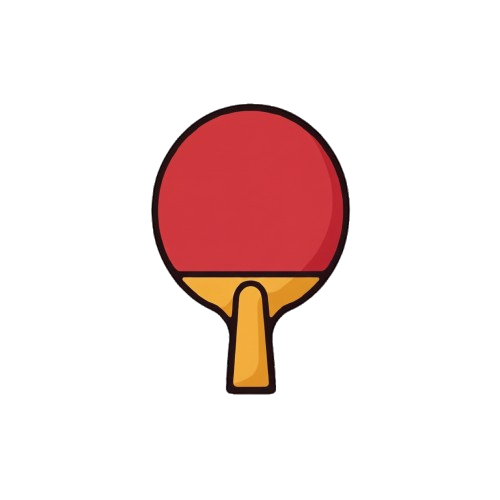
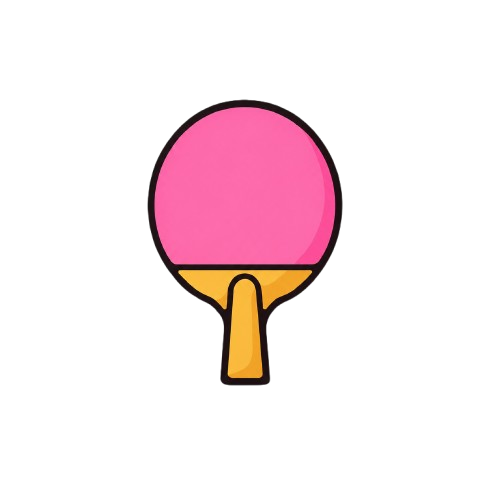
fix assets for hendo page

Changed region(s): [[0.27, 0.18, 0.72, 0.81]]

diff --git a/app/src/home/components/Cabinet.tsx b/app/src/home/components/Cabinet.tsx
@@ -3,6 +3,7 @@ import Trophy from "./Trophy";
 import CabinetBg from "../assets/cabinet-bg.png";
 import mkTrophy from "../assets/trophy-mk.png";
 import ttTrophy from "../assets/trophy-tt.png";
+import ttTrophyHendo from "../assets/trophy-tt-hendo.png";
 import gkTrophy from "../assets/trophy-gk.png";
 
 export default function Cabinet() {
@@ -41,12 +42,12 @@ export default function Cabinet() {
           to="/tt_hendo"
           className="absolute transition-all duration-300 transform hover:scale-110 cursor-pointer"
           style={{
-            top: "26%",
-            left: "32%",
+            top: "25%",
+            left: "33%",
             animation: "glow-green 2.5s ease-in-out infinite alternate 0.8s",
           }}
         >
-          <Trophy trophyImg={ttTrophy} />
+          <Trophy trophyImg={ttTrophyHendo} />
         </Link>
 
         {/* Gk Trophy */}
